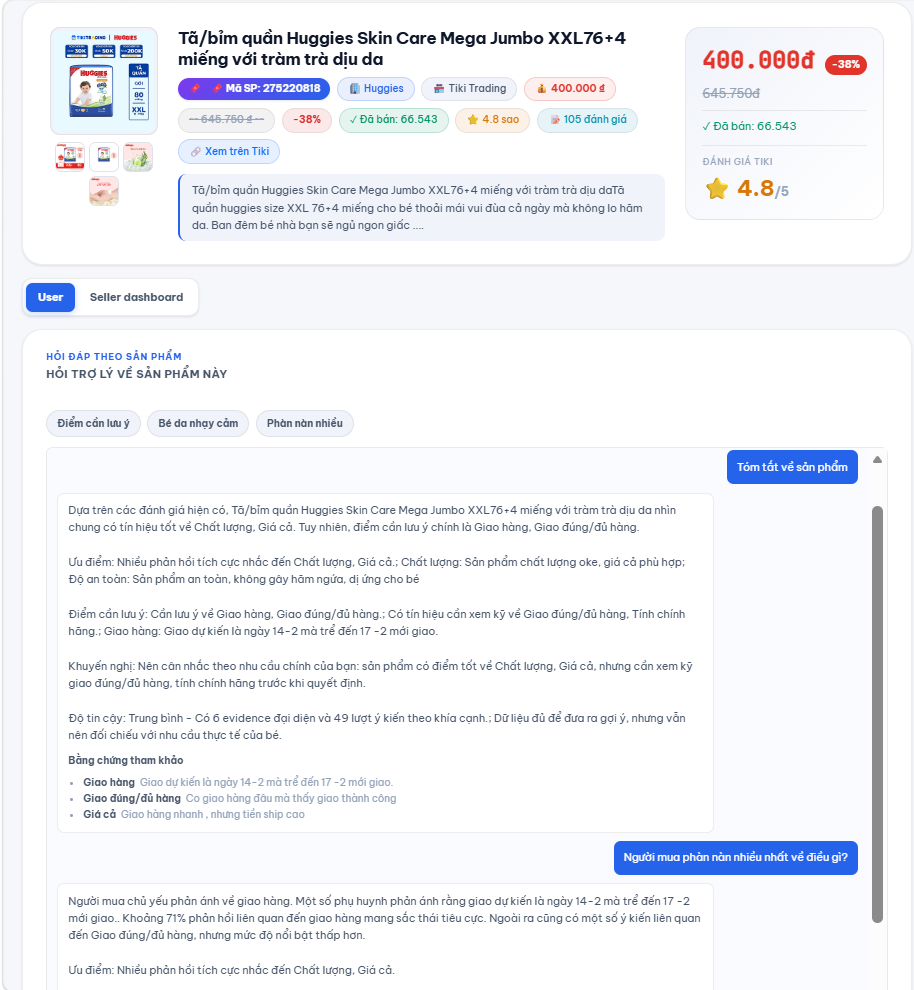
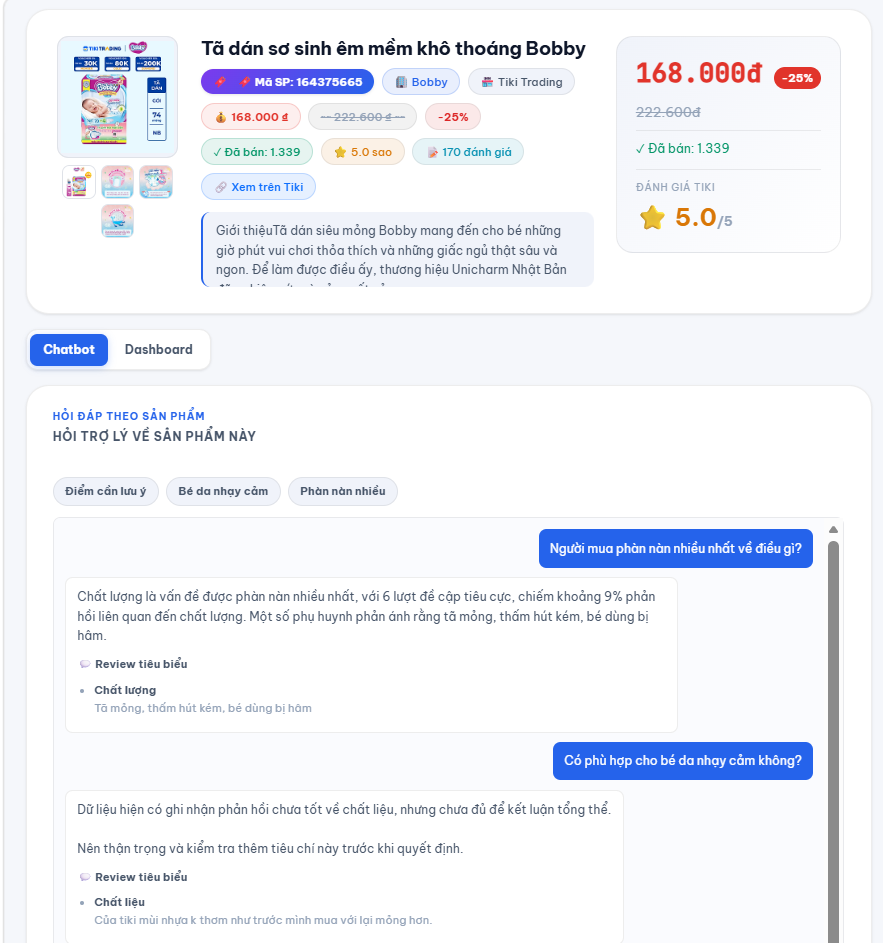
Update README and demo images

diff --git a/README.md b/README.md
@@ -1,6 +1,6 @@
-# TikiInsight - ABSA Dashboard & AI Shopping Assistant
+# ReviewInsight - ABSA Dashboard & AI Shopping Assistant
 
-TikiInsight is an NLP-based system for analyzing customer feedback on baby products from Tiki. The project combines Aspect-Based Sentiment Analysis (ABSA), product review analytics, and a RAG-powered AI shopping assistant to help users understand product strengths, weaknesses, risks, and purchase suitability from real customer reviews.
+ReviewInsight is an NLP-based system for analyzing customer feedback on baby products from an e-commerce platform. The project combines Aspect-Based Sentiment Analysis (ABSA), product review analytics, and a RAG-powered AI shopping assistant to help users understand product strengths, weaknesses, risks, and purchase suitability from real customer reviews.
 
 ![Python](https://img.shields.io/badge/Python-3.10+-blue?logo=python)
 ![FastAPI](https://img.shields.io/badge/FastAPI-0.115+-009688?logo=fastapi)
@@ -13,11 +13,11 @@ TikiInsight is an NLP-based system for analyzing customer feedback on baby produ
 
 Online shoppers often need to read many product reviews before deciding whether a baby product is worth buying. Reviews can be long, repetitive, mixed in sentiment, and difficult to summarize manually.
 
-TikiInsight solves this problem by extracting product aspects from reviews, classifying sentiment for each aspect, summarizing review patterns into a dashboard, and answering product-related questions through an AI shopping assistant.
+ReviewInsight solves this problem by extracting product aspects from reviews, classifying sentiment for each aspect, summarizing review patterns into a dashboard, and answering product-related questions through an AI shopping assistant.
 
 ## Key Features
 
-- Analyze Tiki product reviews from a product URL or product ID.
+- Analyze product reviews from a product URL or product ID.
 - Extract product aspects and classify sentiment using a fine-tuned PhoBERT ABSA model.
 - Visualize product-level sentiment, aspect distribution, strengths, weaknesses, and review evidence.
 - Detect risk signals from negative feedback groups.
@@ -28,14 +28,14 @@ TikiInsight solves this problem by extracting product aspects from reviews, clas
 
 ![Overview Demo](docs/images/demo0.png)
 
-| User Chatbot | Seller Dashboard | Opinion Mining |
+| Chatbot | Dashboard | Opinion Mining |
 |---|---|---|
 | ![Demo 1](docs/images/demo1.png) | ![Demo 2](docs/images/demo2.png) | ![Demo 3](docs/images/demo3.png) |
 
 ## System Architecture
 
 ```text
-Tiki product URL / product ID
+Product URL / product ID
     |
     v
 Crawl product information and reviews
@@ -105,24 +105,12 @@ The system maps internal aspect labels to user-friendly product insight categori
 - Packaging
 - Authenticity
 
-## API Endpoints
 
-| Method | Endpoint | Description |
-|---|---|---|
-| `GET` | `/` | Web dashboard |
-| `POST` | `/api/analyze/start` | Start an asynchronous product analysis job |
-| `GET` | `/api/analyze/progress/{job_id}` | Stream analysis progress with SSE |
-| `POST` | `/api/analyze` | Analyze a product directly |
-| `POST` | `/api/assistant/chat` | Ask review-based product questions |
-| `POST` | `/api/assistant/purchase-advice` | Generate purchase advice |
-| `POST` | `/api/assistant/product-fit` | Check whether a product fits user needs |
-| `GET` | `/api/products/{product_id}/risk` | Get risk analysis for a product |
-| `GET` | `/api/health` | Health check |
 
 ## Project Structure
 
 ```text
-tiki/
+project/
 |-- app/                  # FastAPI app and runtime services
 |   |-- api/              # API route modules and request schemas
 |   |-- assistant/        # RAG, LLM, retrieval, scoring, DB services
@@ -137,7 +125,7 @@ tiki/
 |-- models/
 |   |-- README.md         # Model artifact instructions
 |-- notebooks/            # Training and experiment notebooks
-|-- src/                  # Training and research code
+|-- src/                  # Training model
 |-- tests/                # Lightweight regression tests
 |-- Dockerfile
 |-- docker-compose.yml
@@ -154,8 +142,8 @@ Large datasets, cache files, model checkpoints, and experiment outputs are inten
 ### 1. Clone the repository
 
 ```powershell
-git clone https://github.com/hoaihue04/tiki-nlp-absa.git
-cd tiki-nlp-absa
+git clone <repository-url>
+cd <repository-directory>
 ```
 
 ### 2. Configure environment variables
@@ -255,20 +243,10 @@ Run the lightweight test suite:
 .\.venv\Scripts\python.exe -m pytest
 ```
 
-The current tests cover health routing, product ID parsing, JSON serialization, purchase scoring, and risk detection without requiring live Tiki API calls or model inference.
+The current tests cover health routing, product ID parsing, JSON serialization, purchase scoring, and risk detection without requiring live platform API calls or model inference.
 
-## GitHub Artifact Policy
 
-The repository should contain source code, documentation, configuration examples, notebooks, and small sample data only.
-
-Do not commit:
-
-- `.env`
-- raw, interim, processed, or training datasets
-- cache folders
-- model checkpoints such as `.pt`, `.pth`, `.pkl`, `.bin`
-- experiment outputs and generated result files
 
 ## CV Summary
 
-NLP-based Customer Feedback Analysis and AI Chatbot Assistant for Baby Products on Tiki. Built a FastAPI web application using PhoBERT, ABSA, PostgreSQL, pgvector, and RAG to analyze product reviews, visualize customer insights, detect risk signals, and answer shopping-related questions from review evidence.
+NLP-based Customer Feedback Analysis and AI Chatbot Assistant for Baby Products. Built a FastAPI web application using PhoBERT, ABSA, PostgreSQL, pgvector, and RAG to analyze product reviews, visualize customer insights, detect risk signals, and answer shopping-related questions from review evidence.
